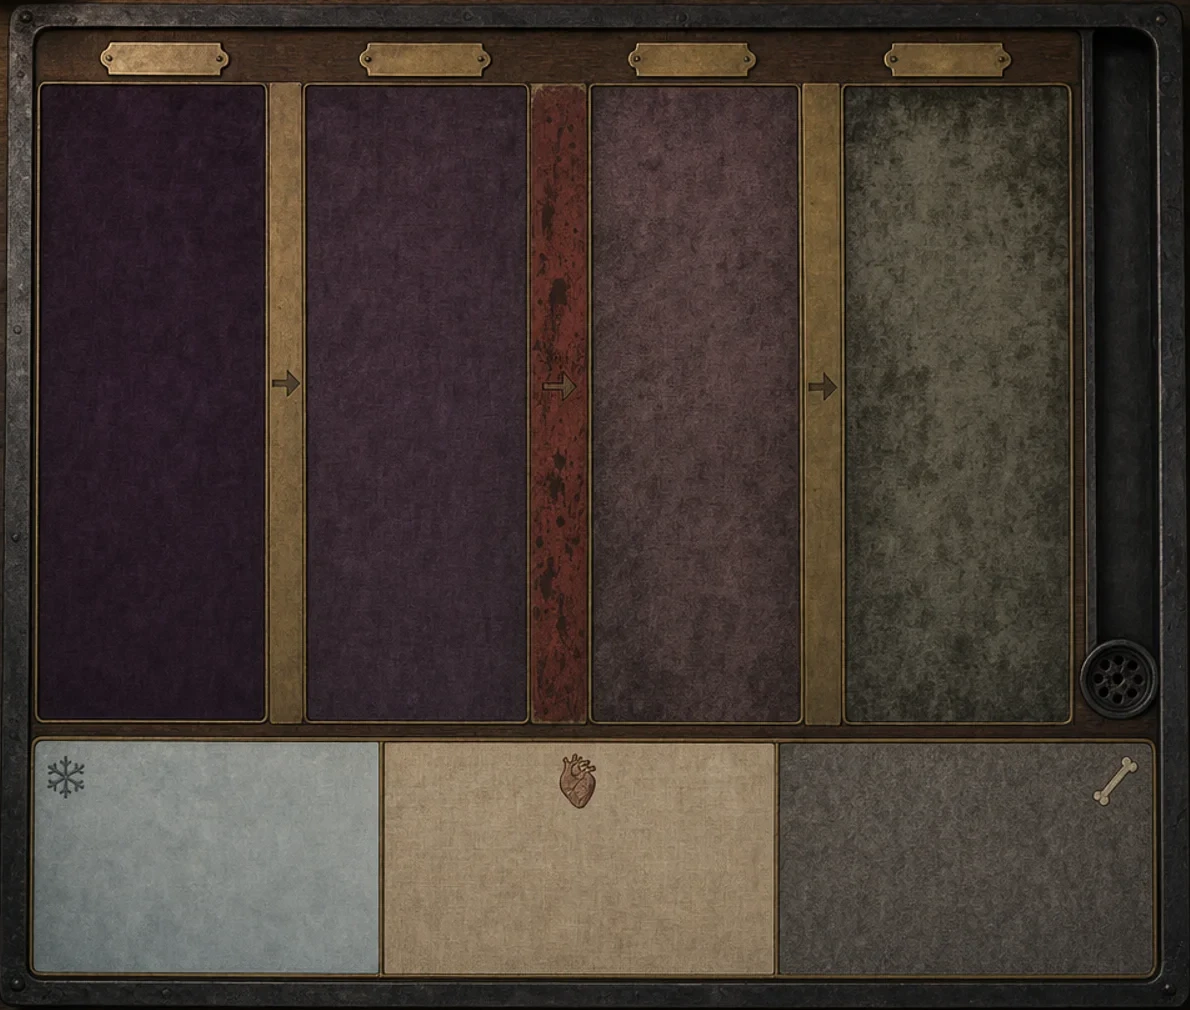
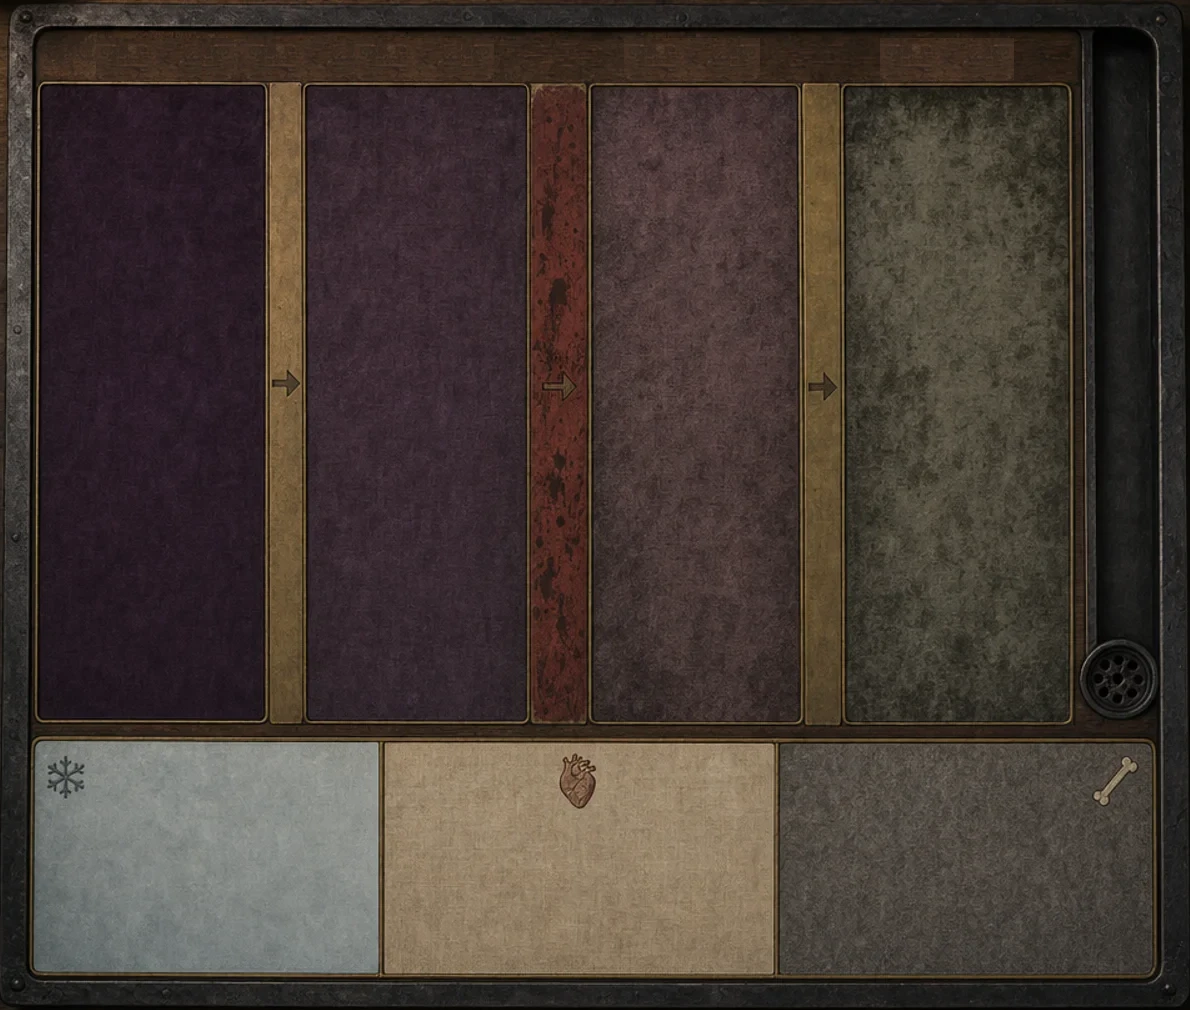
Board: stage numerals white on the wood, plates removed (D197)

diff --git a/art-pipeline/decay_board.py b/art-pipeline/decay_board.py
@@ -1,0 +1,31 @@
+"""The decomposition board's painted face (D193, D197).
+
+python3 art-pipeline/decay_board.py
+
+Crops Bruno's concept (art/source/ui/decay_board_concept.png) to the iron frame and paints out the four brass plates
+over the stage columns with the wood around them (the numerals I to IV are drawn white in Godot instead), then
+writes godot/assets/cabin/decay_board.webp (1190 x 1010).
+"""
+from PIL import Image
+
+SRC = "art/source/ui/decay_board_concept.png"
+DST = "godot/assets/cabin/decay_board.webp"
+CROP = (52, 152, 1242, 1162)
+PLATES = [(96, 234), (355, 494), (624, 760), (880, 1014)]   # x ranges on the cropped face
+BAND = (38, 81)                                             # their y range
+GAP = (244, 350)                                            # plain wood between the first two plates
+
+im = Image.open(SRC).convert("RGB").crop(CROP)
+wood = im.crop((GAP[0], BAND[0], GAP[1], BAND[1]))
+gw = GAP[1] - GAP[0]
+for x0, x1 in PLATES:
+    x = x0
+    flip = False
+    while x < x1:
+        w = min(gw, x1 - x)
+        piece = wood.crop((0, 0, w, wood.height))
+        im.paste(piece.transpose(Image.FLIP_LEFT_RIGHT) if flip else piece, (x, BAND[0]))
+        x += w
+        flip = not flip
+im.save(DST, quality=90)
+print("wrote", DST, im.size)

diff --git a/CLAUDE.md b/CLAUDE.md
@@ -39,7 +39,7 @@ All four JS files are concatenated into one IIFE by `build.py`, so they share sc
 - **Single file:** `python3 build.py --embed` if someone needs one self-contained HTML (several MB).
 
 ## Godot version (the real game from now on, D158)
-`godot/` is the Godot 4.7 project. Since D177 it opens on the cabin (`godot/cabin/`: the map on a candle-lit wooden table, white landmark models built in code (`cabin/landmarks.gd`, D181), name plates (white enamel since D193) that stand up on hover (D182), your things in a row below the map (D190, D191): the operating table upright at 0.7 size, a low legless slab flush with the map's left edge (`cabin/operating_table.gd`, D186, D192: six parts each empty, muscle, skin or alive (a small blue eye over it, D192), `show_table(p.table)`; the parts are low-poly models, D187: `art-pipeline/body_parts.py` turns the 3D AI Studio downloads in `art/source/3dModels/ai/companion/` into `assets/cabin/body/<head|torso|arm|leg>-<muscle|skin>.glb`, run `godot --headless --path godot --import` after; damage (red, D189) is `cabin/part_overlay.gdshader` as an overlay; sizes from the full-body concept, D188; skin leg mirrored, skin arm turned palm up, legs cut clean below the buttock, D194; clicking the table looks straight down; `CABIN_BODY=skin|muscle` with `--shot` shows one look on every part), the decomposition board beside it (`cabin/decay_tray.gd`, D189, since D193 Bruno's concept as its painted face `assets/cabin/decay_board.webp`, layout in the image's pixels: four stage fields with bands for muscle, organ, blood, animal, one piece per unit, `show_mats(p.mats)`; ice, preserved and bone fields, `show_stores(p.preserved, p.bone)`; pieces textured by `cabin/piece.gdshader`, `dawn(after, ice_after)` slides them a stage, `set_ice(p.ice)` puts frosted cubes on the grid, D190; click to lean in, hover shows the count in white, `hover_at()`), Bruno's candle (two, D183), Leyden jar (glass top, `art-pipeline/glass_jar.py`) and scalpel from `art/source/3dModels/` (`assets/cabin/props/`, flame `cabin/flame.gdshader`); `-- --shot` saves tests/cabin-1..3.png, cabin-lab(-top).png, cabin-tray(-dawn, -after, -ice, -hover).png, `CABIN_LOOK="eye;target;name"` adds close-ups; map from `art-pipeline/cabin_map.py`, miniatures from `art-pipeline/miniature.py`; since D179 the map is Bruno's hand-drawn `art/source/ui/map03.png` (map02 fixed by `art-pipeline/fix_map.py`) and `SPOTS` in `cabin.gd` holds each landmark's measured circle; houses and trees from `art-pipeline/village.py` into `village.json`, D180). Before that the town (`godot/town/`, D169 to D176, tag `archive/town-3d-d176`); the earlier table, board and HUD are archived in `godot/archive/` (git tag `archive/table-d168`). The web page stays as the reference until Bruno approves the Godot version.
+`godot/` is the Godot 4.7 project. Since D177 it opens on the cabin (`godot/cabin/`: the map on a candle-lit wooden table, white landmark models built in code (`cabin/landmarks.gd`, D181), name plates (white enamel since D193) that stand up on hover (D182), your things in a row below the map (D190, D191): the operating table upright at 0.7 size, a low legless slab flush with the map's left edge (`cabin/operating_table.gd`, D186, D192: six parts each empty, muscle, skin or alive (a small blue eye over it, D192), `show_table(p.table)`; the parts are low-poly models, D187: `art-pipeline/body_parts.py` turns the 3D AI Studio downloads in `art/source/3dModels/ai/companion/` into `assets/cabin/body/<head|torso|arm|leg>-<muscle|skin>.glb`, run `godot --headless --path godot --import` after; damage (red, D189) is `cabin/part_overlay.gdshader` as an overlay; sizes from the full-body concept, D188; skin leg mirrored, skin arm turned palm up, legs cut clean below the buttock, D194; clicking the table looks straight down; `CABIN_BODY=skin|muscle` with `--shot` shows one look on every part), the decomposition board beside it (`cabin/decay_tray.gd`, D189, since D193 Bruno's concept as its painted face `assets/cabin/decay_board.webp` (made by `art-pipeline/decay_board.py`, plates painted out, numerals white, D197), layout in the image's pixels: four stage fields with bands for muscle, organ, blood, animal, one piece per unit, `show_mats(p.mats)`; ice, preserved and bone fields, `show_stores(p.preserved, p.bone)`; pieces textured by `cabin/piece.gdshader`, `dawn(after, ice_after)` slides them a stage, `set_ice(p.ice)` puts frosted cubes on the grid, D190; click to lean in, hover shows the count in white, `hover_at()`), Bruno's candle (two, D183), Leyden jar (glass top, `art-pipeline/glass_jar.py`) and scalpel from `art/source/3dModels/` (`assets/cabin/props/`, flame `cabin/flame.gdshader`); `-- --shot` saves tests/cabin-1..3.png, cabin-lab(-top).png, cabin-tray(-dawn, -after, -ice, -hover).png, `CABIN_LOOK="eye;target;name"` adds close-ups; map from `art-pipeline/cabin_map.py`, miniatures from `art-pipeline/miniature.py`; since D179 the map is Bruno's hand-drawn `art/source/ui/map03.png` (map02 fixed by `art-pipeline/fix_map.py`) and `SPOTS` in `cabin.gd` holds each landmark's measured circle; houses and trees from `art-pipeline/village.py` into `village.json`, D180). Before that the town (`godot/town/`, D169 to D176, tag `archive/town-3d-d176`); the earlier table, board and HUD are archived in `godot/archive/` (git tag `archive/table-d168`). The web page stays as the reference until Bruno approves the Godot version.
 ```
 godot --path godot                # the town (right-drag turn, left/middle drag or WASD move, wheel zoom)
 godot --path godot -- --shot      # saves tests/town-1..4.png and quits

diff --git a/docs/DECISIONS.md b/docs/DECISIONS.md
@@ -718,3 +718,8 @@ Bruno: "Make the blood in the board as small vials... potions. red ones. I didn'
 Bruno: "make the hover numbers in white. remove the plaque behind the numbers."
 - The lit rectangle over the hovered band or field is gone; only the count shows, above it.
 - The cabin's filmic tone map turned plain white labels cream, so the count is drawn over white (1.7) to come out pure white.
+
+## D197: The stage numerals in white, no plates
+Bruno: "do it." (remove the plates behind I to IV and paint the numerals white), then "the numbers are very dark still... I meant the I, II, III, IV".
+- The brass plates are gone: the 3D boxes over them, and the plates painted into the board's face, which `art-pipeline/decay_board.py` now paints out with the wood beside them when it crops the concept into `godot/assets/cabin/decay_board.webp`.
+- I, II, III and IV are white straight on the wood above each stage field, drawn over white (1.7) like the hover count so the tone map keeps them white.
